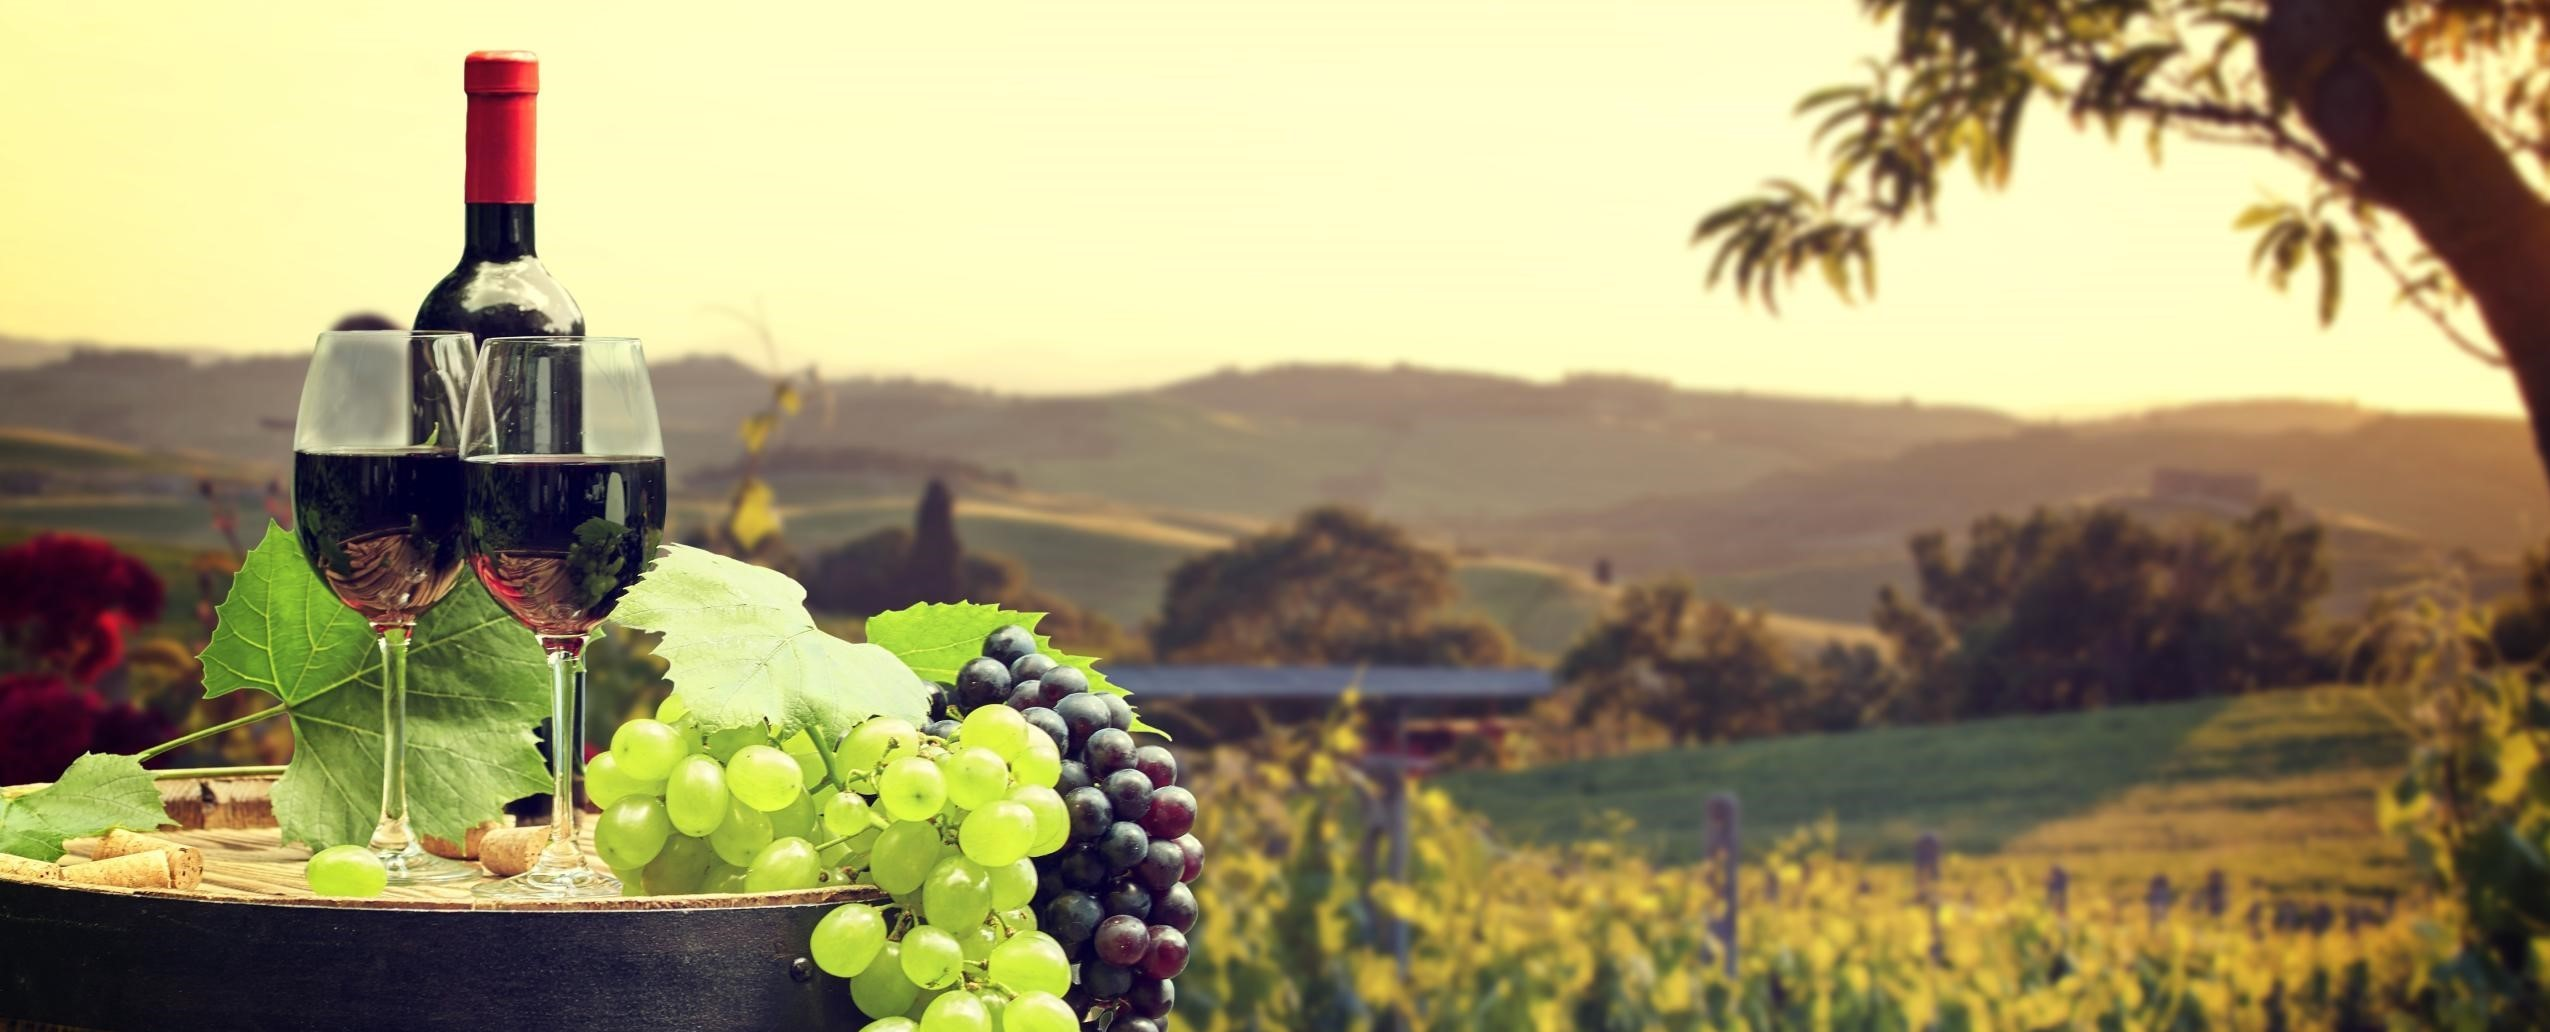
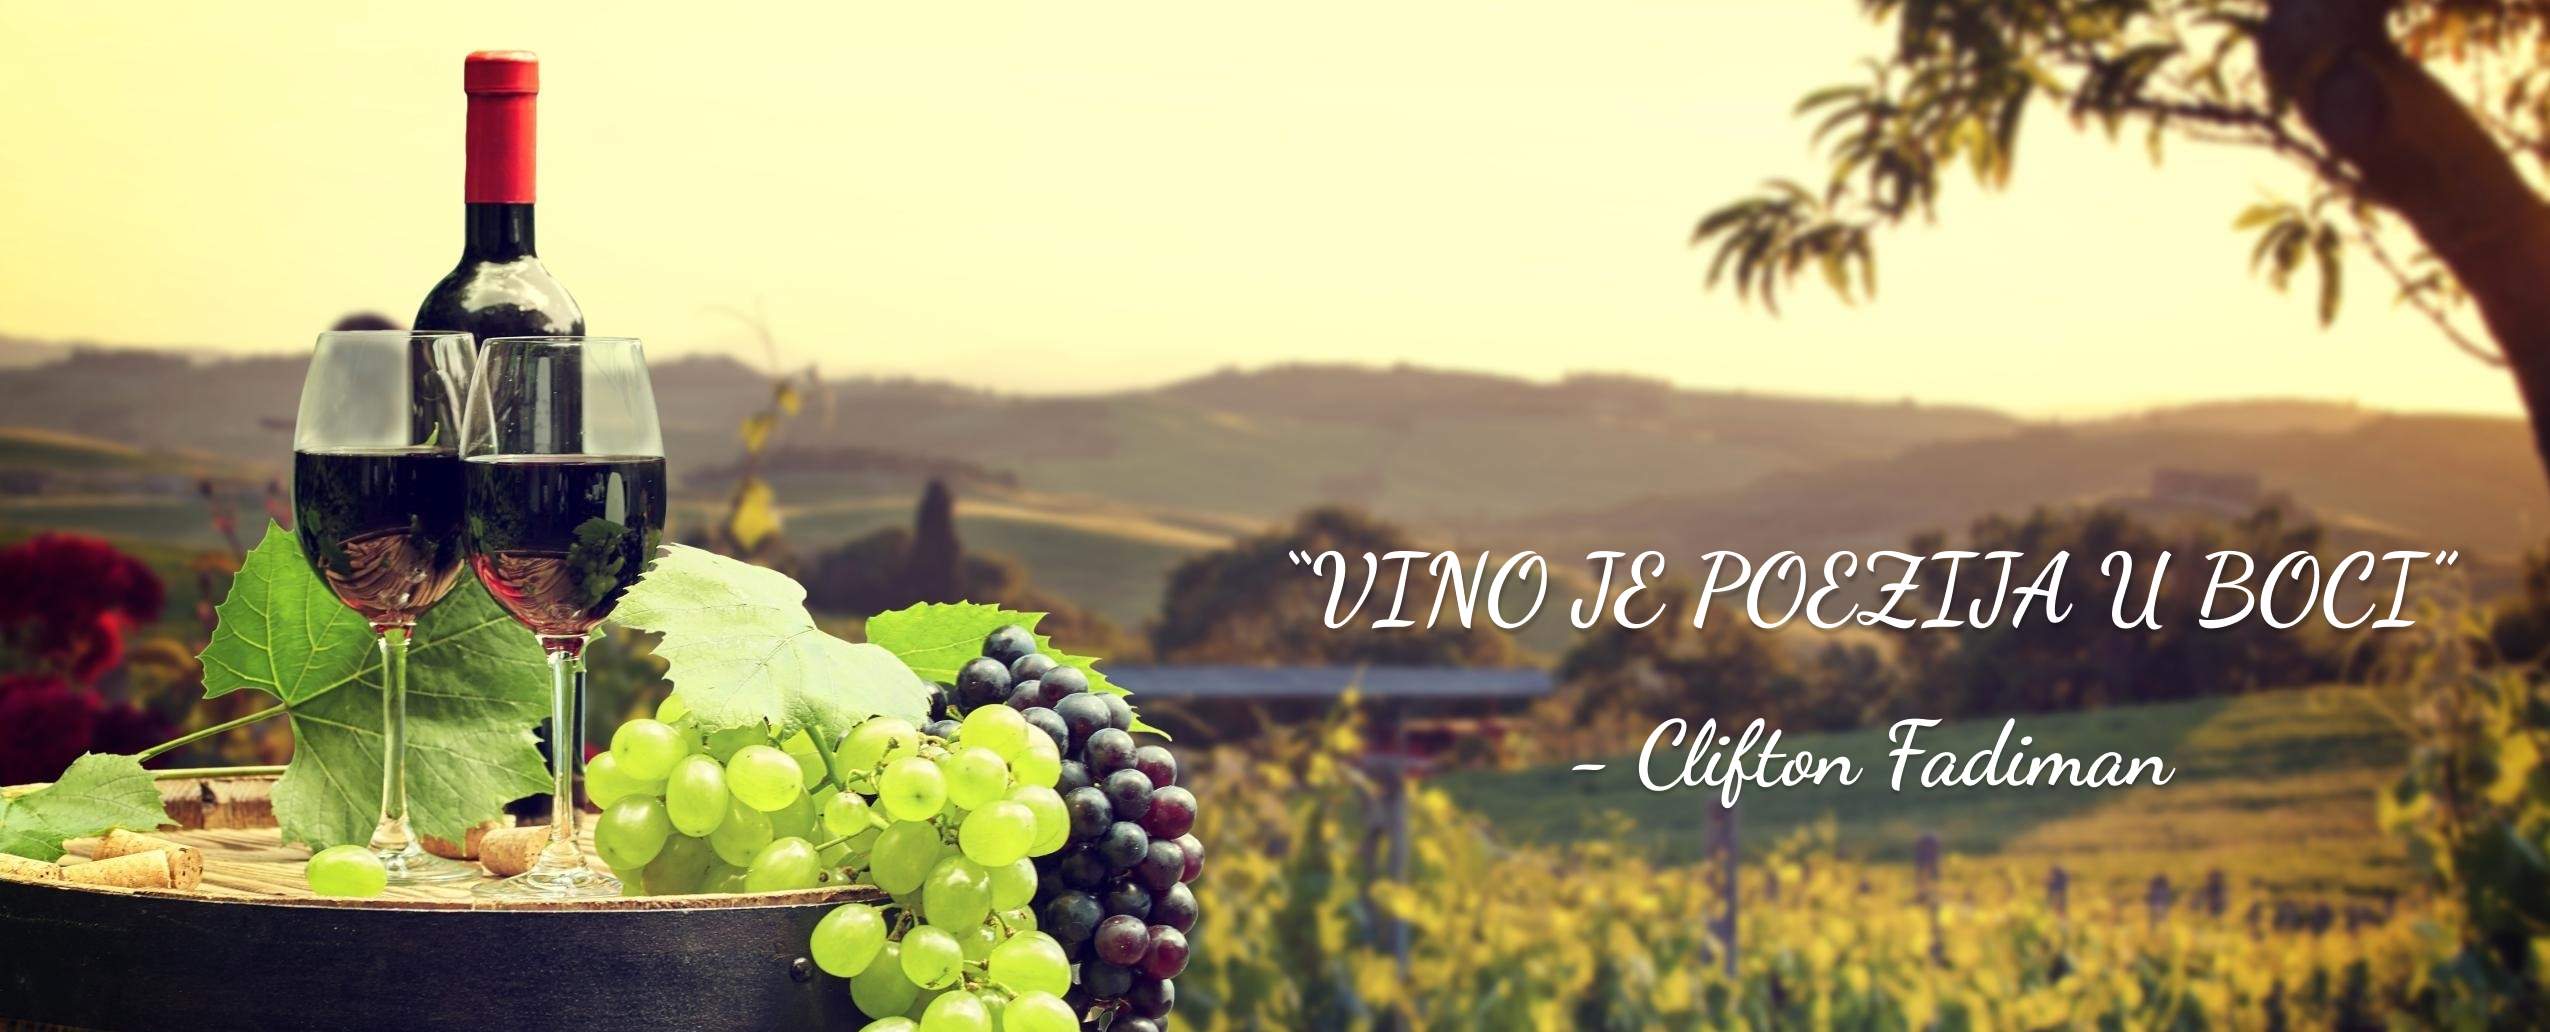
Adding TransitionedCardFan

Changed region(s): [[0.4957, 0.5271, 0.9604, 0.6202], [0.6196, 0.6822, 0.8675, 0.7752]]

diff --git a/src/components/TransitionedCardFan/style.css b/src/components/TransitionedCardFan/style.css
@@ -1,0 +1,87 @@
+div.cardfan {
+  width: 50%;
+  margin: 0 auto;
+  position: relative;
+  margin-bottom: -110px;
+  margin-top: -10px;
+}
+div.cardfan img {
+  position: absolute;
+  width: 100%;
+  height: auto;
+  border: 12px solid #ffe;
+  box-shadow: 4px 4px 3px rgba(0, 0, 0, 0.2);
+  transform-origin: center 460px;
+  transition: all 1s linear;
+  float: right;
+}
+div.cardfan img:first-child {
+  transform: rotate(5deg);
+}
+div.cardfan img:last-child {
+  transform: rotate(-5deg);
+}
+div.cardfan:hover img:first-child {
+  transform: rotate(25deg);
+}
+div.cardfan:hover img:last-child {
+  transform: rotate(-25deg);
+}
+
+img#wine2 {
+  -webkit-filter: grayscale(100%);
+  filter: grayscale(100%);
+  filter: url(#greyscale);
+  filter: gray;
+}
+img#wine2:hover {
+  -webkit-filter: grayscale(0);
+  filter: grayscale(0);
+  filter: none;
+}
+img#wine1 {
+  -webkit-filter: sepia(100%);
+  filter: sepia(100%);
+  filter: url(#sepia);
+  background-color: #5e2612;
+  filter: alpha(opacity = 50);
+}
+img#wine1:hover {
+  -webkit-filter: sepia(0);
+  filter: sepia(0);
+  filter: alpha(opacity = 100);
+  filter: none;
+}
+img#wine3 {
+  -webkit-filter: blur(3px);
+  filter: blur(3px);
+  filter: url(#blur);
+}
+img#wine3:hover {
+  -webkit-filter: blur(0px);
+  filter: blur(0px);
+  filter: none;
+}
+
+@media screen and (max-width: 1200px) {
+  div.cardfan {
+    width: 70%;
+  }
+}
+
+@media screen and (max-width: 800px) {
+  div.cardfan {
+    width: 60%;
+    margin-bottom: -250px;
+  }
+}
+
+@media screen and (max-width: 480px) {
+  div.cardfan {
+    width: 60%;
+    margin-bottom: -300px;
+  }
+  div.cardfan img {
+    transform-origin: center 250px;
+  }
+}

diff --git a/src/components/Home/Home.js b/src/components/Home/Home.js
@@ -1,40 +1,27 @@
 import React from "react";
 import pocetna from "../../images/pocetna.jpg";
-import o_nama from "../../images/onama.png";
 import {
   HomeContainer,
   HomeImage,
-  CardContainer,
-  TextContainer,
-  AboutUsTitle,
-  AboutUsDescription,
-  ImageContainer,
+  TitleWrapper,
+  Saying,
+  SayingAuthor,
 } from "./HomeElements";
+import HomeCard from "../HomeCard/HomeCard";
 
 function Home() {
   return (
     <HomeContainer>
       <HomeImage>
         <img src={pocetna} alt="pocetna"></img>
+        {/*  
+        <TitleWrapper>
+          <Saying>"Vino je poezija u boci"</Saying>
+          <SayingAuthor>- Clifton Fadiman</SayingAuthor>
+        </TitleWrapper>
+        */}
       </HomeImage>
-      <CardContainer>
-        <TextContainer>
-          <AboutUsTitle>O nama</AboutUsTitle>
-          <AboutUsDescription>
-            Lorem ipsum dolor sit amet, consectetur adipiscing elit, sed do
-            eiusmod tempor incididunt ut labore et dolore magna aliqua. <br />{" "}
-            Ut enim ad minim veniam, quis nostrud exercitation ullamco laboris
-            nisi ut aliquip ex ea commodo consequat. <br />
-            Duis aute irure dolor in reprehenderit in voluptate velit esse
-            cillum dolore eu fugiat nulla pariatur.
-            <br /> Excepteur sint occaecat cupidatat non proident, sunt in culpa
-            qui officia deserunt mollit anim id est laborum.
-          </AboutUsDescription>
-        </TextContainer>
-        <ImageContainer>
-          <img src={o_nama} alt="o nama"></img>
-        </ImageContainer>
-      </CardContainer>
+      <HomeCard />
     </HomeContainer>
   );
 }

diff --git a/src/components/TransitionedCardFan/TransitionedCardFan.js b/src/components/TransitionedCardFan/TransitionedCardFan.js
@@ -1,0 +1,53 @@
+import React from "react";
+import "./style.css";
+function TransitionedCardFan() {
+  return (
+    <div>
+      <div class="cardfan">
+        <img
+          src="https://pickywallpapers.com/img/2018/10/wine-bottles-widescreen-desktop-wallpaper-536-545-hd-wallpapers.jpg"
+          alt="cardfan_pic3"
+          id="wine3"
+        />
+        <img
+          src="https://i.pinimg.com/originals/3a/e9/31/3ae931705f3fcbca12ed5b5c45d87b8b.png"
+          alt="cardfan_pic2"
+          id="wine2"
+        />
+        <img
+          src="https://www.columbustravelmedia.com/wp-content/uploads/2017/06/72827659_ml.jpg"
+          alt="cardfan_pic1"
+          id="wine1"
+        />
+      </div>
+      <svg version="1.1" xmlns="http://www.w3.org/2000/svg">
+        <filter id="blur">
+          <feGaussianBlur stdDeviation="3" />
+        </filter>
+      </svg>
+      <svg version="1.1" xmlns="http://www.w3.org/2000/svg">
+        <filter id="greyscale">
+          <feColorMatrix
+            type="matrix"
+            values="0.3333 0.3333 0.3333 0 0
+0.3333 0.3333 0.3333 0 0
+0.3333 0.3333 0.3333 0 0
+0 0 0 1 0"
+          />
+        </filter>
+      </svg>
+      <svg version="1.1" xmlns="http://www.w3.org/2000/svg">
+        <filter id="sepia">
+          <feColorMatrix
+            values="0.14 0.45 0.05 0 0
+0.12 0.39 0.04 0 0
+0.08 0.28 0.03 0 0
+0 0 0 1 0"
+          />
+        </filter>
+      </svg>
+    </div>
+  );
+}
+
+export default TransitionedCardFan;

diff --git a/src/components/HomeCard/HomeCardElements.js b/src/components/HomeCard/HomeCardElements.js
@@ -1,0 +1,66 @@
+import styled from "styled-components";
+
+export const CardContainer = styled.div`
+  display: flex;
+  width: 100%;
+  height: 100%;
+  @media screen and (max-width: 1200px) {
+    flex-direction: column;
+    justify-content: center;
+    align-items: center;
+  }
+`;
+export const AboutUsTitle = styled.h1`
+  font-size: 45px;
+  font-family: "Dancing Script", cursive;
+  font-weight: normal;
+  text-align: center;
+  margin-bottom: -10px;
+
+  @media screen and (max-width: 700px) {
+    font-size: 40px;
+  }
+  @media screen and (max-width: 480px) {
+    font-size: 38px;
+  }
+`;
+export const AboutUsDescription = styled.p`
+  font-family: "Quicksand", sans-serif;
+  line-height: 38px;
+  text-indent: 50px;
+  font-size: 22px;
+
+  @media screen and (max-width: 700px) {
+    line-height: 30px;
+    text-indent: 45px;
+    font-size: 20px;
+  }
+  @media screen and (max-width: 480px) {
+    line-height: 25px;
+    text-indent: 30px;
+    font-size: 18px;
+  }
+`;
+
+export const LeftSide = styled.div`
+  display: flex;
+  flex-direction: column;
+  justify-content: center;
+  align-items: center;
+  width: 50%;
+  margin-left: 100px;
+
+  @media screen and (max-width: 1200px) {
+    margin-left: 0px;
+    width: 90%;
+  }
+`;
+
+export const RightSide = styled.div`
+  display: flex;
+  flex-grow: 1;
+  width: 50%;
+  justify-content: center;
+  align-items: center;
+  float: left;
+`;

diff --git a/src/components/HomeCard/HomeCard.js b/src/components/HomeCard/HomeCard.js
@@ -1,0 +1,34 @@
+import React from "react";
+import TransitionedCardFan from "../TransitionedCardFan/TransitionedCardFan";
+import {
+  CardContainer,
+  AboutUsTitle,
+  AboutUsDescription,
+  LeftSide,
+  RightSide,
+} from "./HomeCardElements";
+
+function HomeCard() {
+  return (
+    <CardContainer>
+      <LeftSide>
+        <AboutUsTitle>Dobrodošli!</AboutUsTitle>
+        <AboutUsDescription>
+          Lorem ipsum dolor sit amet, consectetur adipiscing elit, sed do
+          eiusmod tempor incididunt ut labore et dolore magna aliqua. <br /> Ut
+          enim ad minim veniam, quis nostrud exercitation ullamco laboris nisi
+          ut aliquip ex ea commodo consequat. <br />
+          Duis aute irure dolor in reprehenderit in voluptate velit esse cillum
+          dolore eu fugiat nulla pariatur.
+          <br /> Excepteur sint occaecat cupidatat non proident, sunt in culpa
+          qui officia deserunt mollit anim id est laborum.
+        </AboutUsDescription>
+      </LeftSide>
+      <RightSide>
+        <TransitionedCardFan />
+      </RightSide>
+    </CardContainer>
+  );
+}
+
+export default HomeCard;

diff --git a/src/components/SignIn/SignIn.js b/src/components/SignIn/SignIn.js
@@ -21,9 +21,9 @@ function SignIn() {
       <div class="form-container sign-up-container">
         <form class="form" action="#">
           <h1 class="title">Napravi račun</h1>
-          <input class="inp" type="text" placeholder="Name" />
+          <input class="inp" type="text" placeholder="Ime" />
           <input class="inp" type="email" placeholder="Email" />
-          <input class="inp" type="password" placeholder="Password" />
+          <input class="inp" type="password" placeholder="Lozinka" />
           <button class="btn">Registracija</button>
         </form>
       </div>
@@ -31,9 +31,9 @@ function SignIn() {
         <form class="form" action="#">
           <h1 class="title">Prijavi se</h1>
           <input class="inp" type="email" placeholder="Email" />
-          <input class="inp" type="password" placeholder="Password" />
+          <input class="inp" type="password" placeholder="Lozinka" />
           <a class="tag" href="#">
-            Forgot your password?
+            Zaboravili ste lozinku?
           </a>
           <button class="btn">Prijava</button>
         </form>

diff --git a/src/components/Home/HomeElements.js b/src/components/Home/HomeElements.js
@@ -2,11 +2,42 @@ import styled from "styled-components";
 
 export const HomeContainer = styled.div``;
 
+export const TitleWrapper = styled.div``;
+
 export const HomeImage = styled.div`
   img {
-    max-width: 100%;
+    width: 100%;
     height: auto;
+    position: relative;
+    background-size: cover;
   }
+  > ${TitleWrapper} {
+    width: fit-content;
+    height: fit-content;
+    display: flex;
+    flex-flow: column;
+    background: transparent;
+    position: absolute;
+    top: 65%;
+    left: 70%;
+    transform: translateX(-50%) translateY(-50%);
+    text-align: center;
+    color: white;
+    text-transform: uppercase;
+  }
+`;
+
+export const Saying = styled.h1`
+  font-size: 60px;
+  font-family: "Dancing Script", cursive;
+  text-shadow: 0 0 20px rgba(0, 0, 0, 0.5);
+`;
+
+export const SayingAuthor = styled.p`
+  font-size: 30px;
+  text-shadow: 0 0 10px rgba(0, 0, 0, 0.8);
+  font-family: "Quicksand", sans-serif;
+  padding-top: 20px;
 `;
 
 export const CardContainer = styled.div`

diff --git a/src/components/Footer/FooterElements.js b/src/components/Footer/FooterElements.js
@@ -8,7 +8,7 @@ export const FooterContainer = styled.div`
   background-color: #252422;
   height: 300px;
   justify-content: space-between;
-  margin-top: 15px;
+  margin-top: 35px;
 `;
 
 export const SeparatorBar = styled.section`
